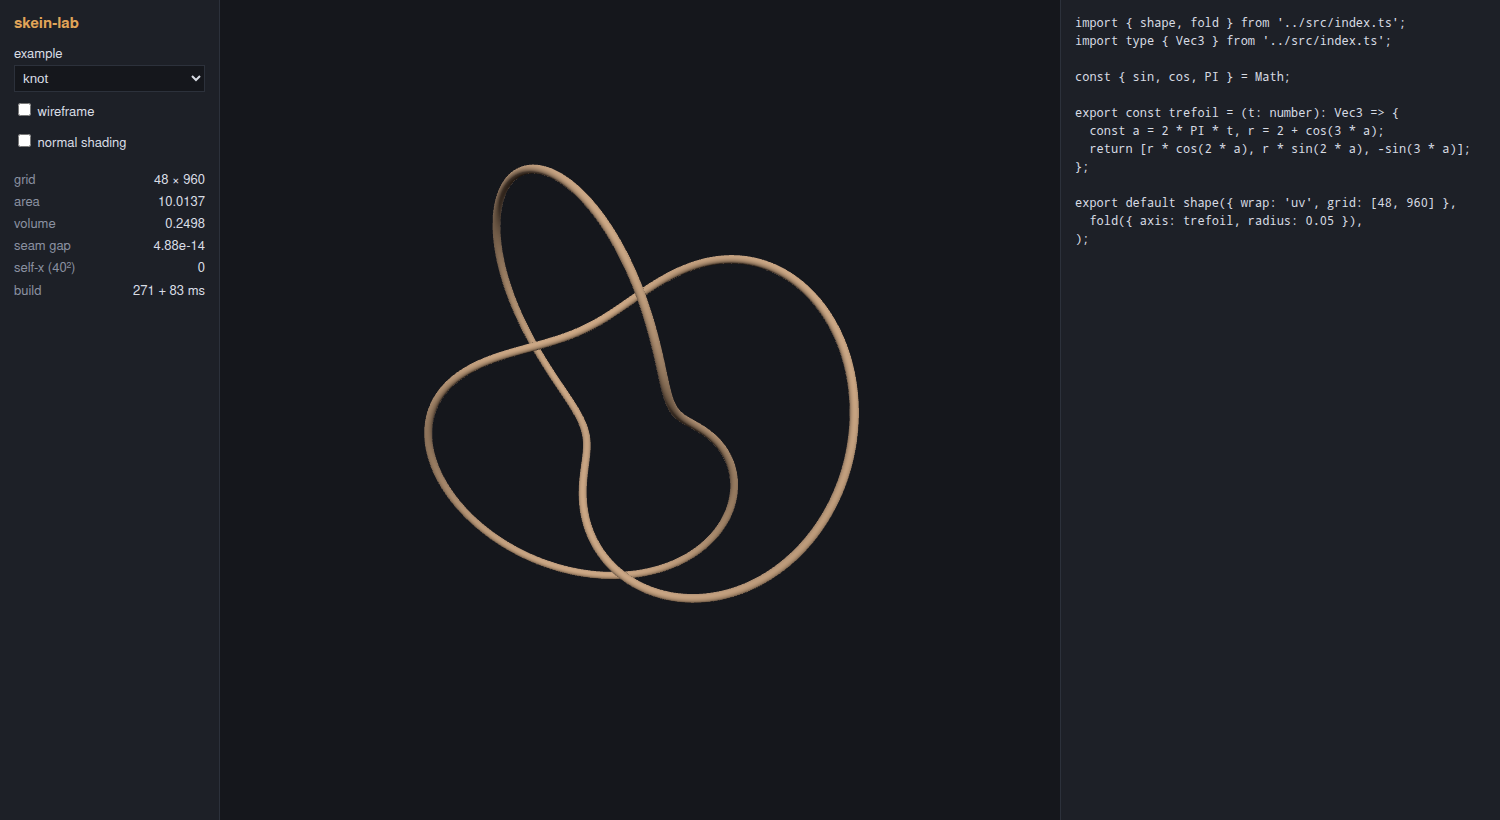
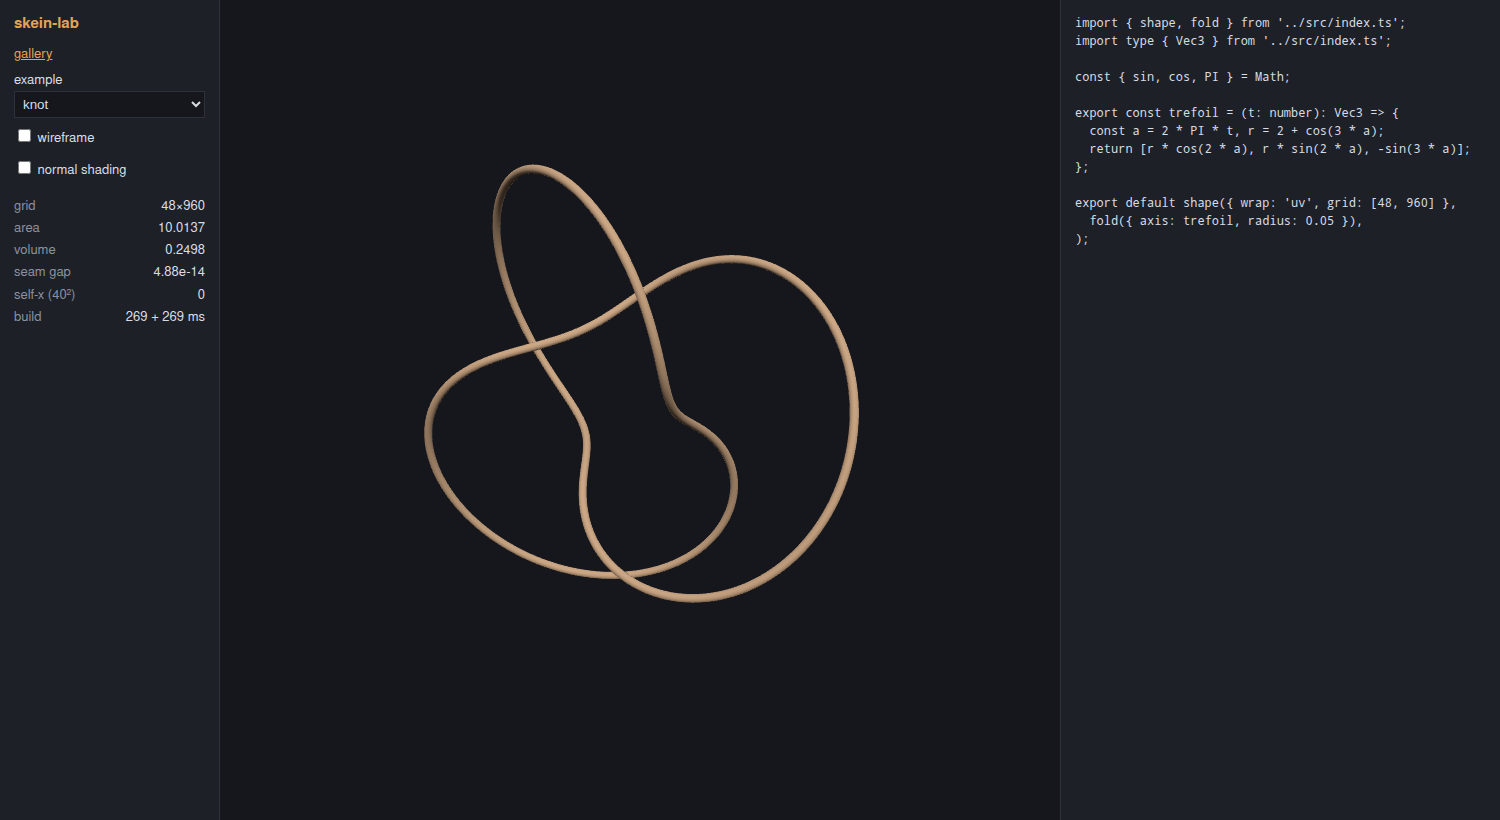
skein-lab: gallery page, per-example shots, contact sheet, API.md, notes
Claude-Session: https://claude.ai/code/session_0178Bgb6pmobPd8s8R4uCPF4

Changed region(s): [[0.0, 0.061, 0.092, 0.3963], [0.092, 0.2134, 0.1533, 0.3963]]

diff --git a/tools/skein-lab/NOTES.md b/tools/skein-lab/NOTES.md
@@ -3,7 +3,8 @@
 Throwaway previewer for the pipeline-of-maps surface grammar. Not the renderer.
 
 Run: `sbx npm install`, `sbx node --test test/*.test.ts`, `sbx npx tsc --noEmit -p .`, `sbx node build.mjs`,
-then `python3 -m http.server -b 127.0.0.1 PORT` from `dist/` and open `/?ex=torus&wire=1&normals=1`.
+then `python3 -m http.server -b 127.0.0.1 PORT` from `dist/` and open `/gallery.html` or `/?ex=torus&wire=1&normals=1`.
+`sbx node scripts/survey.ts [names]` prints metrics for every example. API reference: `API.md`.
 
 ## Decisions where the model was silent
 
@@ -53,12 +54,11 @@ then `python3 -m http.server -b 127.0.0.1 PORT` from `dist/` and open `/?ex=toru
   expecting "bend preserving lengths" will be surprised.
 - **Path holonomy at t = 1.** First cut wrapped t = 1 back to t = 0, which made the seam look closed even with
   correction off; the gap moved into the last cell instead. Fixed: only t outside [0, 1] wraps.
-- **Spindle torus is not a crossing.** Planned as the deliberate self-intersection case, it reported 0 and
-  that is right: a spindle torus only touches itself at the two axis points. Replaced by a tube of radius 0.9
-  on the trefoil (strand spacing 1.66), which reports 184 pairs.
-- **Grid-aligned crossings are missed.** A figure-eight curve section crosses itself along lines that sit on
-  mesh edges at every v level; contacts then land on triangle boundaries and the strict test reports 0.
-  The coarse test is a gross-overlap detector, not a proof of embedding.
+- **Spindle torus is not a crossing.** It only touches itself at the two axis points: the strict detector
+  said 0, the inclusive one says 6000 (every ring converges there). Both are defensible; it now sits in the
+  failure gallery as the "touching" case.
+- **Grid-aligned crossings were missed** by the first, strict detector (contacts on triangle boundaries).
+  Round 2 made it inclusive; see below.
 - **Volume of an intersecting shape is meaningless.** The fat knot reports 81.0, double-counting the overlap.
 - **Hard creases are smoothed.** Finite-difference normals at n-gon corners blend across the edge; fine for a
   preview, wrong for a renderer that wants crease normals.
@@ -66,3 +66,79 @@ then `python3 -m http.server -b 127.0.0.1 PORT` from `dist/` and open `/?ex=toru
   is too coarse for any displace with sharp features.
 - **Cost of nesting.** Each stage that reads `n` evaluates the previous stage 5 times; chains of displaces
   are exponential in depth. Fine for the examples here, not a renderer design.
+
+## Round 2: primitives, series, gallery
+
+### Decisions
+
+- **Transforms are ops.** `scale` / `rotate` take an optional origin; `translate` / `matrix` are absolute.
+  All accept a constant (fast path, no sample built) or a value of the per-sample inputs.
+- **A series is callable two ways.** `path(...)(0.3)` evaluates at 0.3; called with a sample it evaluates
+  at `v`. That makes every series structurally a `Field`, so `Value<T>` stays `T | Field<T>` and arrow
+  parameters keep their contextual types. A three-way union with a `(t: number) => T` member broke
+  inference in every example (`({ v }) =>` became implicit `any`).
+- **`by(f, key | expr)`** is the one way to drive a series from anything but v. It also works on plain
+  one-argument functions.
+- **`path(p0, p1, ...)`** takes points at uniform parameters (linear by default); **`spline([t, p], ...)`**
+  takes knots with parameter values (Catmull-Rom by default). Both take a trailing options object:
+  `closed`, `interp` (`linear | catmull | cubic`), `arclength`. Closed knots live in [0, 1); 1 closes.
+- **Named fold slots.** `twist` and `axial` are fold options; `radius` may also return
+  `{ radius, angle, axial }` or the positional array. `twist` now works for curve sections too.
+  The path-axis extra roll was renamed `roll` to free `twist`.
+- **Models may be arrays of shapes.** Metrics sum area/volume and run the intersection test on the merged
+  coarse meshes, so parts that touch or interpenetrate count.
+- **Seam identifications** `shift` and `flip` on the v seam: welded by index with u remapped, measured by
+  the seam gap with the same remap. Flip turns volume off (non-orientable).
+- **Flat caps are ear-clipped**, not fanned: the C-beam's centroid sits outside its section, and the fan
+  produced 102 intersecting pairs (volume was still right; signed fans cancel).
+- **The intersection test is inclusive** (boundary contacts count, 1e-12 slack). It catches the
+  grid-aligned Klein crossing (992 pairs) and counts touching contact. Ear clipping had to treat
+  near-collinear ears with a tolerance, or the inclusive test flagged cap/wall T-contacts on n-gon edges.
+
+### Friction (round 2)
+
+- **Height-setting is now `scale([1, k, 1])`**, which reads well. Uniform function-valued scale is a trap:
+  `scale(by(flare, ...))` also scaled y, folded the column back over itself (102 pairs). Fixed with a Vec3
+  path `[k, 1, k]`, but the uniform form looks right and is wrong.
+- **Lathe profiles with straight runs** (capsule) need a piecewise function; there is no arc/segment profile
+  builder. A `profile(line(...), arc(...))` helper would make the capsule one line.
+- **Instancing is plain TypeScript.** DNA rungs, chain links and rope strands are `Array.from` / factory
+  functions over `rotate` + `translate`. Natural in TS; a grammar needs an explicit repeat/instance construct.
+- **Closure conditions are on the author.** A twisted square torus closes only if the twist is a multiple
+  of the section symmetry and `shift` matches it; Möbius and Klein need `flip`. Nothing infers these.
+- **Union by touching is an intersection.** The pumpkin stem had to float 2 mm above the body or the
+  detector counted 941 contacts. There is no union/CSG notion; parts are just listed.
+- **Sprinkles are bumps, not objects.** `displace` can only push along the normal; real sprinkles would be
+  instanced shapes scattered on the surface.
+- **Catmull-Rom overshoots on uneven spacing**: a 0.1 segment next to a 2.9 one doubles back (cusp). Found by
+  the arclength test (28% chord spread); the test now measures along the curve (0.15% spread, same 1%
+  tolerance). A centripetal variant would avoid the cusp.
+- **`series((t): Vec3 => ...)` needs the return annotation**, or TypeScript infers `number[]`.
+- **Flip seams render with a crease**: welded vertices take one normal across a non-orientable seam (Klein).
+
+### Limits: what the model cannot express
+
+- **Genus above 1 / branching.** One (u, v) sheet gives sphere, disc, tube, torus, Möbius or Klein topology.
+  A double torus, a pretzel with three holes, a Y-junction or a tree limb needs several shapes or a
+  different construct. The figure-8 loop and chain are genus-1 tubes; the pretzel was left out.
+- **Coincident sheets** (a fold with range > 2π at constant radius) overlap exactly; the detector ignores
+  coplanar pairs, so this is not reported.
+- **Hard creases**: normals are always finite differences; n-gon and star edges shade soft.
+- **Profiles through the axis mid-surface** (a closed lathe profile touching r = 0) are pinch points the
+  mesh does not weld; the bowl was written as an open profile from pole to pole instead.
+
+### What would be awkward in POV-Ray syntax (input to the grammar work, not a design)
+
+- **Destructured sample records** `({ v, theta, n }) =>`: POV functions take positional float parameters;
+  there is no record of named inputs, and no "previous stage" normal.
+- **Non-scalar returns**: radius as `[r, angle, axial]` or `{ radius, angle, axial }`, vector-valued scale
+  and translate. POV `function {}` returns one float; vector results need three functions or spline/
+  transform tricks.
+- **Higher-order values**: `ops(...)`, `morph(keys, t)`, `by(f, map)`, factories like `link(...place)`.
+  POV macros cover this at parse time only; they are not values.
+- **Series**: POV `spline { linear_spline | cubic_spline | natural_spline ... }` with explicit parameters is
+  a close match to `spline([t, p], ...)`, and calling `S(t)` is native. Missing: closed handling (repeat
+  points by hand), arc-length reparameterisation, scalar series (use `.x` of a vector spline).
+- **Topology flags** (`wrap`, `ends`, `shift`, `flip`, `grid`) are an object literal here; in POV they would be
+  keywords inside the object block, which is probably easier to read than the TS form.
+- **Models as arrays** map directly onto `union { }`.

diff --git a/tools/skein-lab/API.md b/tools/skein-lab/API.md
@@ -1,0 +1,136 @@
+# skein-lab API
+
+One entry point: `import { ... } from './src/index.ts'`. A model is a list of **ops** applied in order to
+the unit quad `(u, v) -> [u, v, 0]`. Every op maps the current surface to a new one.
+
+```ts
+import { shape, scale, fold } from './src/index.ts';
+
+export default shape({ wrap: 'u', ends: 'flat' },   // topology of the result
+  scale([1, 2, 1]),                                  // quad becomes 1 x 2
+  fold({ radius: ({ v }) => 1 - 0.75 * v }),         // roll it into a tapered tube
+);
+```
+
+## Values: constants, functions, series
+
+Most op arguments accept a `Value<T>`: a constant, or a function of the per-sample inputs.
+
+| input | meaning |
+|---|---|
+| `u`, `v` | surface parameters in [0, 1] |
+| `x`, `y`, `z`, `p` | the incoming point (before this op) |
+| `n` | the incoming surface normal (finite differences, only computed if read) |
+| `theta`, `s`, `t`, `w` | inside `fold` only: angle, fold-direction, axial and offset coordinates |
+
+Functions bind what they use: `({ v }) => 1 - v`, `({ n }) => n[2]`, `({ x, y, z }) => ...`.
+
+A **series** (`path`, `spline`, `series`) is a function of one number. Used directly as a value it is
+evaluated at `v`. Use `by` to drive it from anything else:
+
+```ts
+fold({ radius: taper })                         // taper(v)
+fold({ radius: by(taper, 'u') })                // taper(u)
+scale(by(flare, ({ y }) => y / 2))              // flare(y / 2)
+displace(by(ridges, ({ u, v }) => u + 0.3 * v)) // any expression of the inputs
+```
+
+`by(f, key | (sample) => number)`: keys are `'u' 'v' 'x' 'y' 'z' 's' 't' 'w' 'theta'` (`'theta'` is
+normalised to turns, theta / 2π).
+
+## Model
+
+### `shape(topology, ...ops)`
+`topology`: `wrap: 'none' | 'u' | 'v' | 'uv'`, `ends: End | [End, End]` with `End = 'open' | 'flat' | 'pole'`
+(at v = 0 and v = 1, only when u wraps), `grid: [nu, nv]` (default 160 × 160), and for the v seam
+`shift` (u offset as a fraction, e.g. a quarter-twisted square torus) and `flip` (u → 1 − u, Möbius, Klein).
+A model may also be an array of shapes: `export default [body, stem]`.
+
+### `ops(...ops)`
+Groups ops into one op. `const tube = ops(fold({ radius: 0.2 }), scale([1, 3, 1]))`.
+
+## Transform primitives
+
+```ts
+scale(2)                                   // uniform, about the origin
+scale([1, 3, 1])                           // per axis
+scale([2, 2, 2], [0, 1, 0])                // about a point
+scale(({ v }) => [1 + v, 1, 1 + v])        // function-valued
+translate([0, 0.75, 0])                    // absolute
+translate(sway)                            // a Vec3 path, driven by v
+rotate(Y, Math.PI / 4)                     // axis + angle, about the origin
+rotate(Y, ({ y }) => 1.2 * Math.PI * y, [0.5, 0, 0])  // angle as a function, about a point
+matrix([[1, 0.3, 0], [0, 1, 0], [0, 0, 1]])           // 3x3 linear
+matrix([[0, -1, 0, 2], [1, 0, 0, 0], [0, 0, 1, 0], [0, 0, 0, 1]])  // 4x4 affine/projective, absolute
+```
+
+Constant arguments take a fast path that never builds a sample.
+
+## Surface ops
+
+### `fold(options)`
+Bends the current surface around an axis. Reads the incoming point as `s` (along `along`), `t` (along
+`axis`) and `w` (along `along × axis`); maps `theta = start + s · range`; places the point at radius
+`radius + w`, angle `theta + twist`, axial `t + axial`.
+
+| option | default | |
+|---|---|---|
+| `axis` | `Y` | a direction, or a path (Vec3 series or `(t) => Vec3`): a sweep |
+| `origin` | `[0, 0, 0]` | where a straight axis passes |
+| `along` | `X` | fold direction; also the zero-angle direction for a straight axis |
+| `radius` | `1` | number, function, or series; may return `[r, angle, axial]` or `{ radius, angle, axial }` |
+| `curve` | — | section as a 2D curve `(t) => [a, b]` or a 2D series, instead of `radius` |
+| `twist` | `0` | angle offset (works for `radius` and `curve`) |
+| `axial` | `0` | axial offset (a coil when it grows with theta) |
+| `range`, `start` | `2π`, `0` | angle range; partial ranges curl a sheet |
+| `up`, `roll`, `correct` | `Z`, `0`, `true` | path axis only: zero-angle up vector, extra roll, holonomy correction |
+
+```ts
+fold({ radius: 0.5 })                                              // tube
+fold({ axis: Z, along: Y, radius: 2 })                             // bend that tube into a torus
+fold({ radius: ngon(6, 0.5), twist: ({ v }) => Math.PI * v })      // twisted hexagon
+fold({ curve: star(5, 0.6, 0.3) })                                 // non-polar section
+fold({ axis: torusKnot(2, 3), radius: 0.05 })                      // sweep along a path
+fold({ axis: Z, along: Y, range: 12 * Math.PI, radius: 0.6, axial: ({ theta }) => 0.05 * theta })  // coil
+```
+
+### `lathe(profile, options?)`
+A fold whose section is a profile `[radius, height]` per v: `lathe(spline(...))` or
+`lathe(({ v, theta }) => [r, h])`. Accepts the other fold options (`range`, `twist`, ...).
+
+### `displace(amount)`
+Moves each point along the incoming normal. `displace(({ u, v }) => -0.04 * crackle(tubeUV(u, v, 0.45, 10)))`.
+
+### `fn(f)` / `fn(fx, fy, fz)`
+Raw escape hatch: `fn(({ u, v }) => [..., ..., ...])`.
+
+### `spherical(radius = 1)`
+Maps (u, v) to a sphere, radius as a value: `spherical(({ u }) => 1 + 0.1 * Math.cos(12 * Math.PI * u))`.
+
+### `morph(keys, t)`
+Blends whole pipelines piecewise-linearly: `morph([fold({ radius: 0.5 }), fold({ radius: ngon(4, 0.5) }), fold({ curve: star(5) })], ({ v }) => v)`.
+
+## Series
+
+```ts
+path([0, 0, 0], [1, 1, 0], [2, 0, 1])                         // Vec3 polyline, uniform parameter
+path(0.35, 0.55, 0.6, 0.42, { interp: 'cubic' })              // scalar series
+path(...corners, { closed: true, interp: 'catmull', arclength: true })
+spline([0, [0, 0]], [0.12, [0.55, 0]], [1, [0.52, 2.1]])      // knots: [parameter, value], Catmull-Rom
+series((t): Vec3 => [Math.cos(t), t, Math.sin(t)])           // any function, made usable as a value
+```
+
+Options: `closed` (wraps t; closing knot at 1), `interp: 'linear' | 'catmull' | 'cubic'` (cubic is a
+natural / periodic C2 spline), `arclength` (reparameterise by length). Points may be numbers, 2D or 3D.
+
+## Helpers
+
+Sections: `circle(r)`, `ngon(n, r)`, `superellipse(p, a, b)` (polar, for `radius`), `star(points, outer, inner)`
+(a closed 2D path, for `curve`). Paths: `helix(radius, height, turns)`, `torusKnot(p, q, R, r)`.
+Noise: `cells(p)` → `{ f1, f2 }`, `crackle(p, width)`, `tubeUV(u, v, length, scale)` (seamless in u).
+Constants: `X`, `Y`, `Z`. Vectors: `add sub dot cross norm dist normalize lerp`.
+
+## Metrics
+
+`measure(model)` → `{ area, volume, seamGap, selfIntersections }`. `buildMesh(shape, nu?, nv?)`,
+`area`, `volume` (closed results only), `seamGap`, `selfIntersections(model, n = 40)`.
